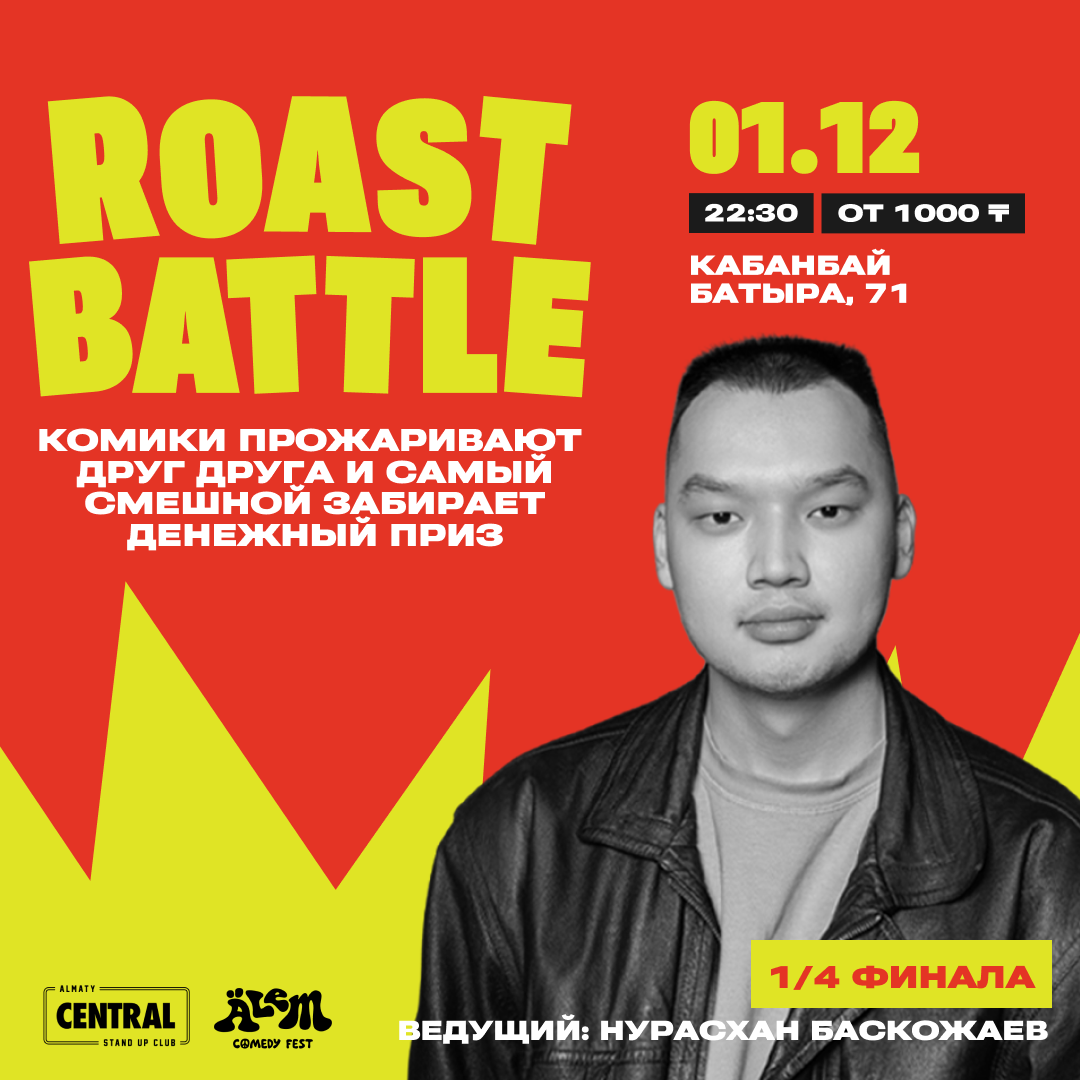
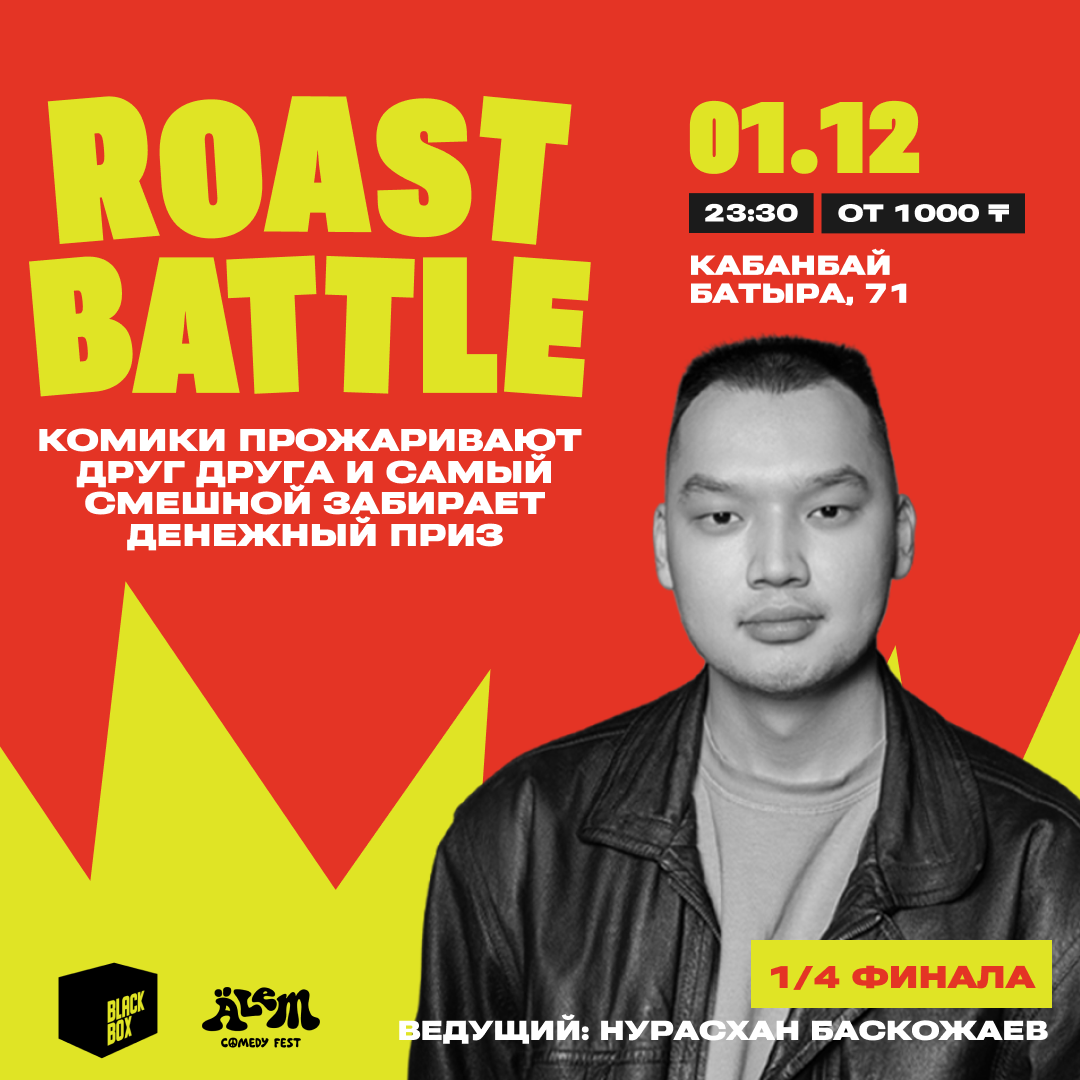
new events)

Changed region(s): [[0.0306, 0.8861, 0.3056, 0.9778], [0.6722, 0.1833, 0.7028, 0.2139]]

diff --git a/src/helpers/events.js b/src/helpers/events.js
@@ -10,7 +10,7 @@ export const eventsInfo = [
 		price: "донат от 1000 ₸",
 		img: images.moneyMike4,
 		name: "Money Mic",
-		link: "https://almaty.qtickets.events/92626-denezhnyy-mikrofon",
+		link: "https://almaty.qtickets.events/92273-denezhnyy-mikrofon",
 	},
 	{
 		id: 2,
@@ -34,23 +34,23 @@ export const eventsInfo = [
 		name: "Тюркский разговорник",
 		link: "https://sxodim.com/almaty/event/komediynoe-shou-tyurkskiy-razgovornik-pervyy-motor",
 	},
-	{
-		id: 4,
-		date: "1 декабря",
-		time: "16:00",
-		location: "Almaty Central Stand-Up Club",
-		address: "ул. Кабанбай батыра, 71",
-		price: "1000 ₸",
-		name: "Тюркский разговорник",
-		img: images.eventImg3,
-		link: "https://sxodim.com/almaty/event/komediynoe-shou-tyurkskiy-razgovornik-pervyy-motor",
-	},
+	// {
+	// 	id: 4,
+	// 	date: "1 декабря",
+	// 	time: "16:00",
+	// 	location: "Almaty Central Stand-Up Club",
+	// 	address: "ул. Кабанбай батыра, 71",
+	// 	price: "1000 ₸",
+	// 	name: "Тюркский разговорник",
+	// 	img: images.eventImg3,
+	// 	link: "https://sxodim.com/almaty/event/komediynoe-shou-tyurkskiy-razgovornik-pervyy-motor",
+	// },
 	{
 		id: 5,
 		date: "1 декабря",
-		time: "19:00",
-		location: "Wallride",
-		address: "Проспект Абая, 8а",
+		time: "21:00",//1900
+		location: "Coffee House Grain",
+		address: "ул. Курмангазы, 97",
 		price: "lдонат от 1000 ₸",
 		name: "Money Mic: Отборочный тур",
 		link: "https://almaty.qtickets.events/92273-denezhnyy-mikrofon",
@@ -239,7 +239,7 @@ export const eventsInfo = [
 	{
 		id: 23,
 		date: "1 декабря",
-		time: "22:30",
+		time: "23:30",
 		location: "Almaty Central Stand-Up Club",
 		address: "ул. Кабанбай батыра, 71",
 		img: images.roastBattle4,
@@ -254,6 +254,7 @@ export const eventsInfo = [
 		location: "Almaty Central Stand-Up Club",
 		address: "ул. Кабанбай батыра, 71",
 		price: "донат от 1000 ₸",
+		img: images.taro,
 		name: "Таро Шоу",
 		link: "https://almaty.qtickets.events/92620-taro-shou",
 	},
@@ -261,10 +262,11 @@ export const eventsInfo = [
 	{
 		id: 25,
 		date: "1 декабря",
-		time: "23:00",
+		time: "22:30",
 		location: "Black Box",
 		address: "ул. Кабанбай батыра, 71",
 		price: "донат от 1000 ₸",
+		img: images.roastBattle4,
 		name: "Roast Battle Tournament: Round 1",
 		link: "https://almaty.qtickets.events/92605-roast-battle",
 	},
@@ -338,6 +340,7 @@ export const eventsInfo = [
 		location: "Wallride",
 		address: "Проспект Абая, 8а",
 		price: "донат от 1000 ₸",
+		img: images.moneyMike5,
 		name: "Money Mic: Отборочный тур",
 		link: "https://almaty.qtickets.events/92274-denezhnyy-mikrofon",
 	},
@@ -414,7 +417,6 @@ export const eventsInfo = [
 		location: "Black Box",
 		address: "ул. Кабанбай батыра, 71",
 		price: "4000 ₸",
-		// img: images.roastBattle5,
 		name: "Прожарка звезды",
 		link: "",
 	},
@@ -456,6 +458,7 @@ export const eventsInfo = [
 		location: "Almaty Central Stand-Up Club",
 		address: "ул. Кабанбай батыра, 71",
 		price: "донат от 1000 ₸",
+		img: images.roastBattle5,
 		name: "Roast Battle Tournament: Round 2",
 		link: "https://almaty.qtickets.events/92608-roast-battle-polufinal",
 	},
@@ -625,6 +628,7 @@ export const eventsInfo = [
 		location: "Black Box",
 		address: "ул. Кабанбай батыра, 71",
 		price: "от 1000 ₸",
+		img: images.roastBattle6,
 		name: "Roast Battle Tournament: Final Round",
 		link: "https://sxodim.com/almaty/event/stendap-shou-roast-battle-final",
 	},

diff --git a/src/assets/images/images.js b/src/assets/images/images.js
@@ -49,6 +49,7 @@ import roastBattle from "./roastBattle.png";
 import moneyMike from "./moneyMike.jpg";
 import moneyMike2 from "./moneyMike2.jpg";
 import moneyMike3 from "./moneyMike3.jpg";
+import moneyMike5 from "./moneyMike5.jpg";
 import barbarianMike from "./barbarianMike.jpg";
 import northKazakhstan from "./northKazakhstan.jpg";
 import roastBattle2 from "./roastBattle2.png";
@@ -69,6 +70,8 @@ import double from "./double.jpg";
 import double2 from "./double2.jpg";
 import west from "./west.jpg";
 import moneyMike4 from "./moneyMike4.jpg";
+import taro from "./taro.jpg";
+
 
 export default {
 	whatsapp,
@@ -122,6 +125,7 @@ export default {
 	moneyMike2,
 	moneyMike3,
 	moneyMike4,
+	moneyMike5,
 	barbarianMike,
 	northKazakhstan,
 	roastBattle2,
@@ -142,4 +146,5 @@ export default {
 	double,
 	double2,
 	west,
+	taro,
 };
